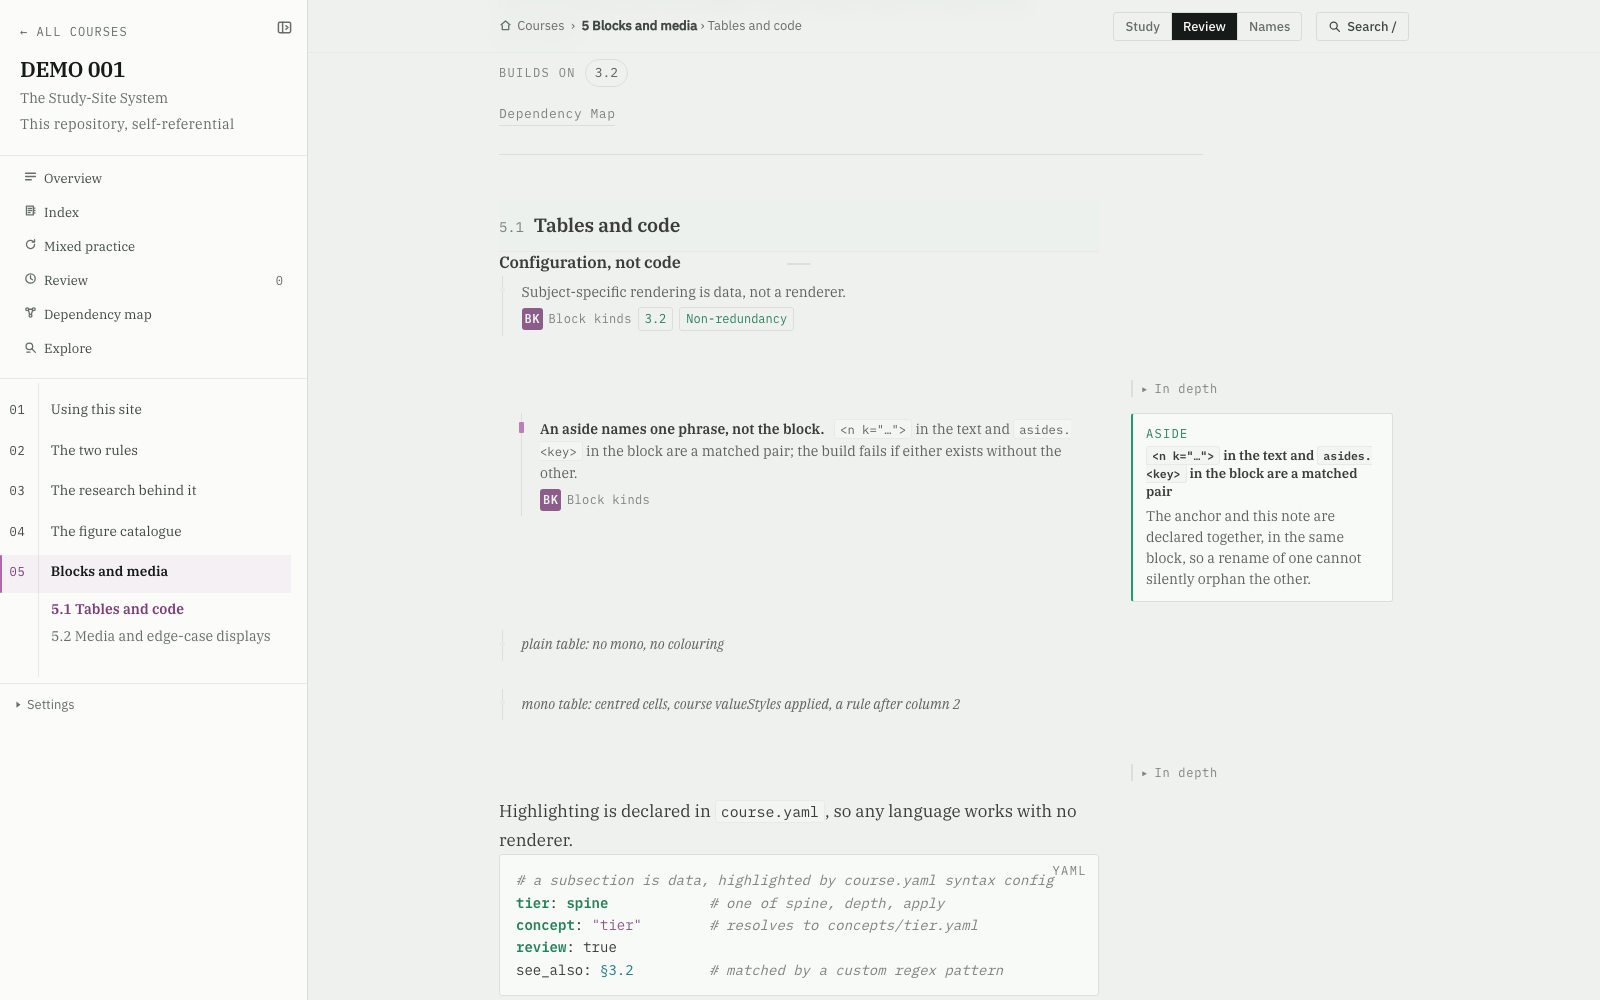
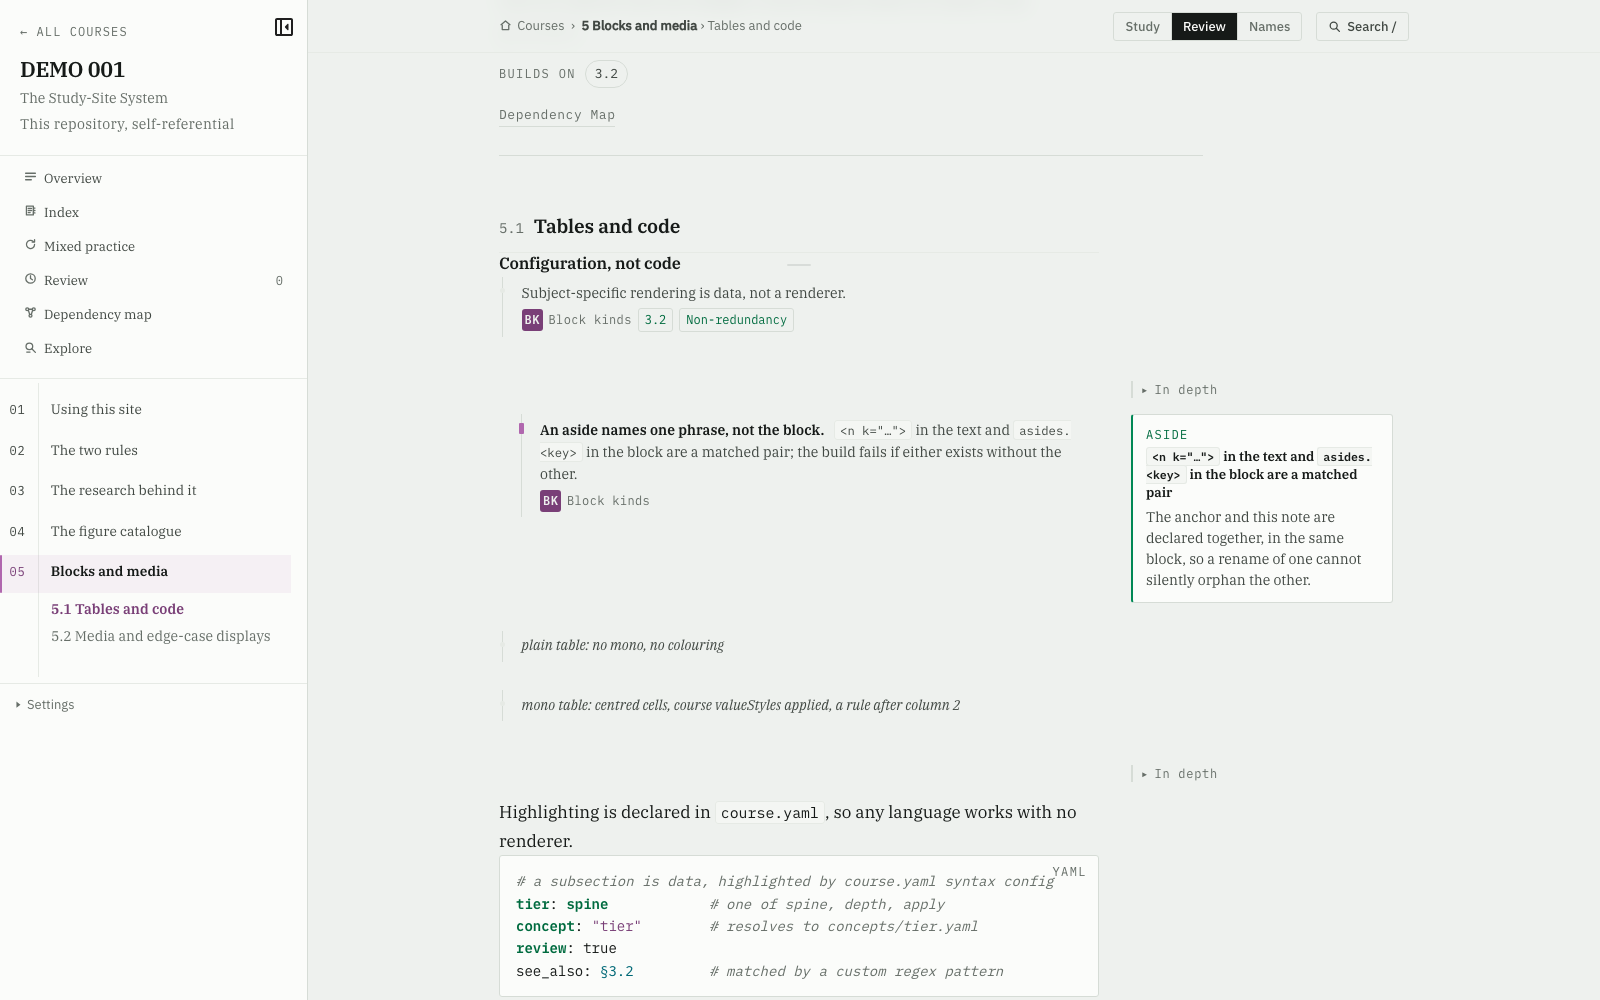
html & svg changes

diff --git a/src/components/Icon.jsx b/src/components/Icon.jsx
@@ -33,11 +33,9 @@ export function IconSaved({ filled = false }) {
 export function IconGrab()     { return <svg {...P}><path d="M6 3.5h.01M10 3.5h.01M6 8h.01M10 8h.01M6 12.5h.01M10 12.5h.01"/></svg>; }
 
 export function IconTuck({ open }) {
-  return (
-    <svg {...P} width="15" height="15">
-      <rect x="1.5" y="2.5" width="13" height="11" rx="1.5" />
-      <path d={open ? "M6 2.5v11" : "M4.5 2.5v11"} />
-      <path d={open ? "M9.6 6.2 11.8 8l-2.2 1.8" : "M12 6.2 9.8 8l2.2 1.8"} />
-    </svg>
+  return !open ? (
+    <svg xmlns="http://www.w3.org/2000/svg" height="24px" viewBox="0 -960 960 960" width="24px" fill="#1f1f1f"><path d="M500-592v224q0 14 12 19t22-5l98-98q12-12 12-28t-12-28l-98-98q-10-10-22-5t-12 19ZM200-120q-33 0-56.5-23.5T120-200v-560q0-33 23.5-56.5T200-840h560q33 0 56.5 23.5T840-760v560q0 33-23.5 56.5T760-120H200Zm120-80v-560H200v560h120Zm80 0h360v-560H400v560Zm-80 0H200h120Z"/></svg>
+  ) : (
+    <svg xmlns="http://www.w3.org/2000/svg" height="24px" viewBox="0 -960 960 960" width="24px" fill="#1f1f1f"><path d="M660-368v-224q0-14-12-19t-22 5l-98 98q-12 12-12 28t12 28l98 98q10 10 22 5t12-19ZM200-120q-33 0-56.5-23.5T120-200v-560q0-33 23.5-56.5T200-840h560q33 0 56.5 23.5T840-760v560q0 33-23.5 56.5T760-120H200Zm120-80v-560H200v560h120Zm80 0h360v-560H400v560Zm-80 0H200h120Z"/></svg>
   );
 }

diff --git a/src/lib/library.js b/src/lib/library.js
@@ -93,6 +93,9 @@ export async function getAll(cids) {
 export function refresh() {
   const own = importedIndex();
   const gone = readHidden();
+  /* Re-importing a course replaces its files in storage. A parsed copy from a
+     prior visit must not survive that replacement (or a removal). */
+  for (const k of Object.keys(cache)) if (!BUILTIN[k]) delete cache[k];
   for (const k of Object.keys(INDEX)) if (!BUILTIN[k] && !own[k]) delete INDEX[k];
   Object.assign(INDEX, own);
   /* Only the *listing* drops a dismissed course. Its INDEX entry stays, so a
